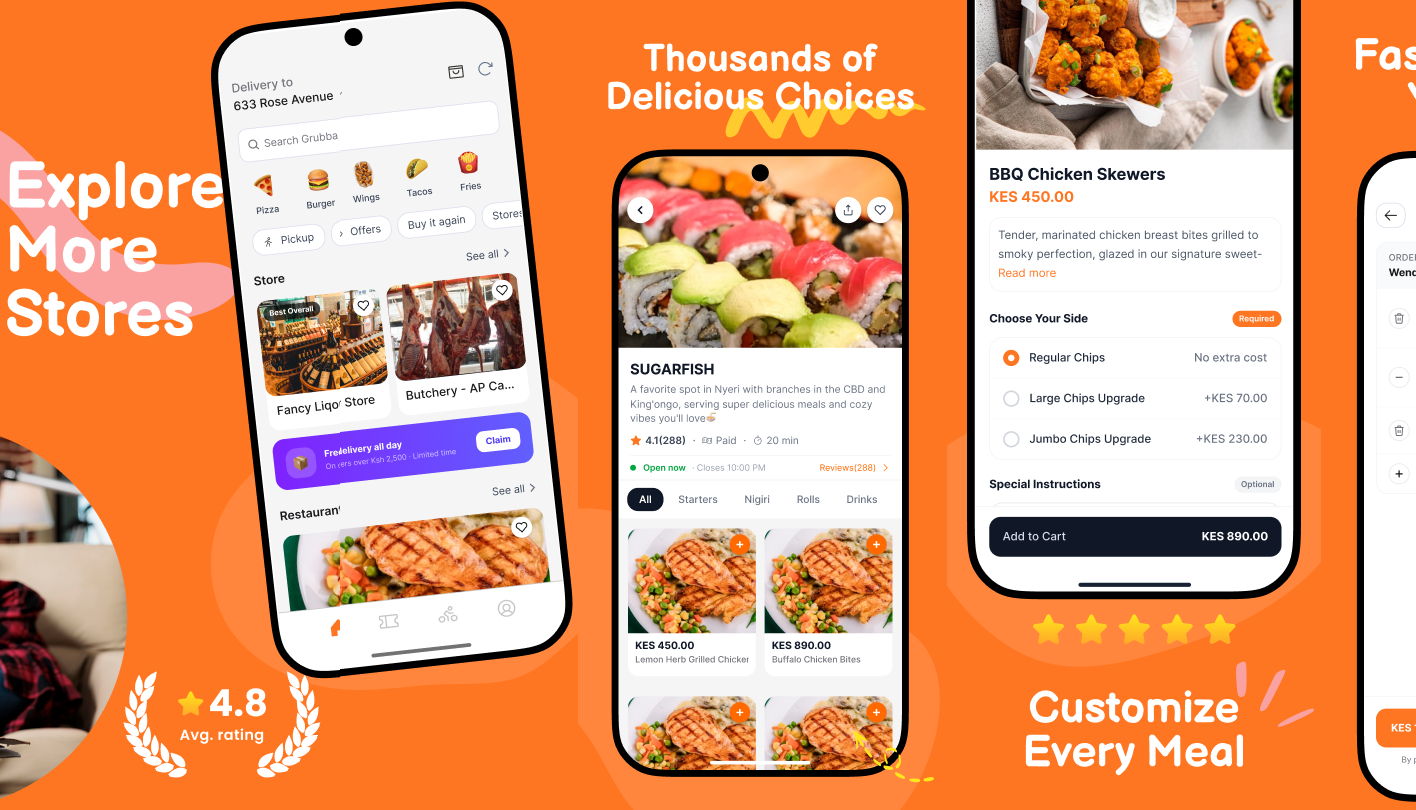
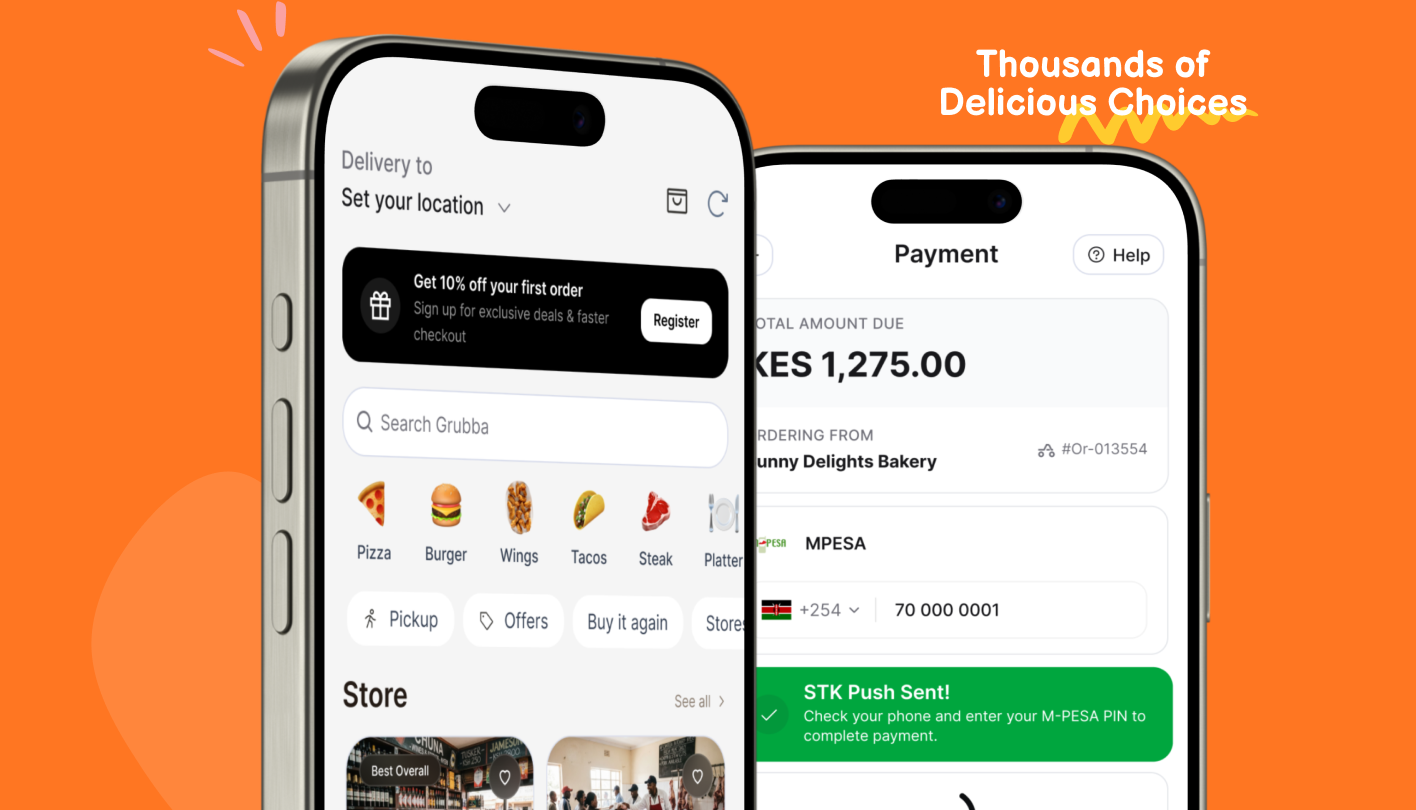
Serve Akropolis and LeverageX thumbnails from public
Both are 1200x750, matching the 16:10 case study slot exactly, so the
cards no longer depend on Dribbble's CDN. Also picks up the smaller
grubba.png re-export.

diff --git a/config/index.ts b/config/index.ts
@@ -1089,7 +1089,7 @@ export const projects: Project[] = [
     title: 'Akropolis: Product Design Case Study',
     category: 'Project',
     tags: ['Product Design', 'Social Platform', 'UX Research'],
-    image: 'https://cdn.dribbble.com/userupload/48481724/file/3f5bb96013f0c1ef7876abcd680c8581.png?resize=752x&vertical=center',
+    image: '/akropolis.png',
     summary: 'A product design case study exploring how video-first conversations can create healthier, more authentic online discussions through behavioral design and reputation mechanics.',
     year: '2026',
     role: 'Product Designer',
@@ -1751,7 +1751,7 @@ export const projects: Project[] = [
     title: 'Designing LeverageX',
     category: 'Project',
     tags: ['Product Design', 'AI', 'UX Research'],
-    image: 'https://cdn.dribbble.com/userupload/48414616/file/98c08c3b67c8e1b048694ee0f30c95fe.png?resize=752x&vertical=center',
+    image: '/leveragex.png',
     summary: 'Building an AI-powered accountability platform that helps people actually achieve long-term goals.',
     year: '2025',
     role: 'Product Designer',
